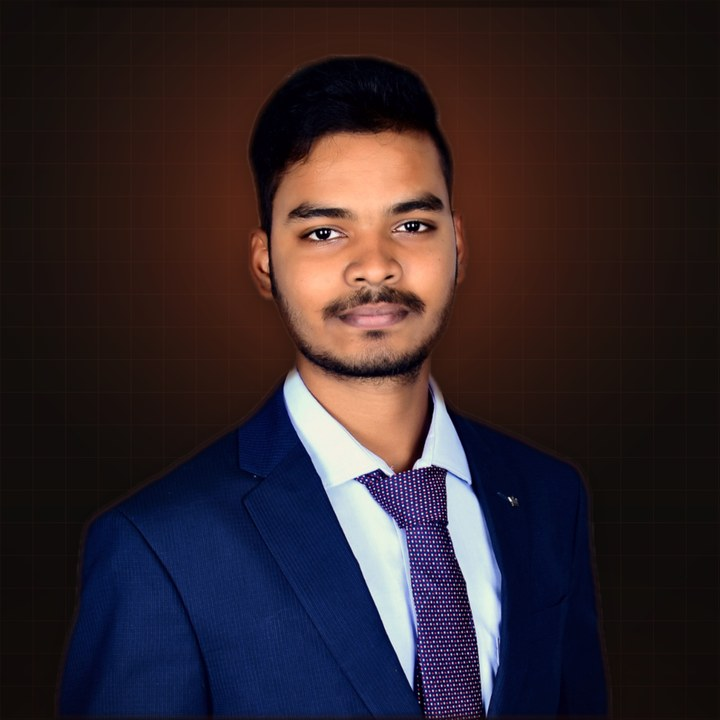
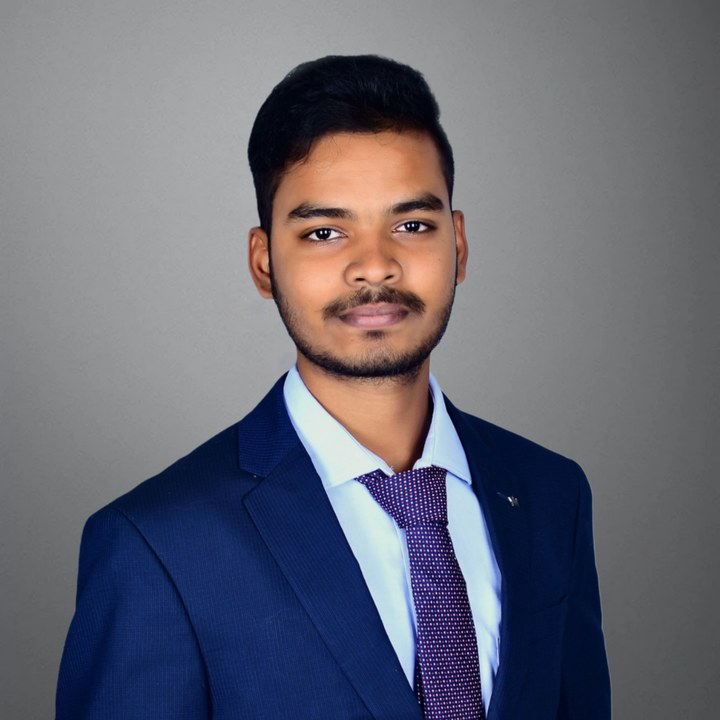
Match template's neutral palette and restore original photo

diff --git a/src/components/Hero.tsx b/src/components/Hero.tsx
@@ -10,7 +10,7 @@ import ProjectCover from "./ProjectCover"
 import { Tag } from "./shared"
 
 const GRAPH_LEVELS = [
-  "rgba(39, 33, 30, 0.9)",    // no contributions
+  "rgba(38, 38, 38, 0.9)",    // no contributions
   "rgba(242, 87, 43, 0.25)", // accent tints
   "rgba(242, 87, 43, 0.45)",
   "rgba(242, 87, 43, 0.7)",
@@ -112,14 +112,14 @@ function Hero() {
 
         {/* Profile */}
         <div className="flex animate-[heroScale_0.7s_ease-out_0.15s_both] flex-col items-center gap-3 md:items-start">
-          <div className="relative aspect-square w-30 overflow-hidden rounded-xl border-2 border-accent shadow-[0_0_24px_-6px] shadow-accent/60 lg:w-38">
+          <div className="relative aspect-square w-30 overflow-hidden rounded-xl border-2 border-ink/15 lg:w-38">
             <img
               src={site.photo}
               alt={site.name}
               className="h-full w-full object-cover object-top"
             />
             {/* Scanner line */}
-            <div className="pointer-events-none absolute inset-x-0 top-0 h-1/4 animate-scan bg-linear-to-b from-transparent via-accent/25 to-transparent" />
+            <div className="pointer-events-none absolute inset-x-0 top-0 h-1/4 animate-scan bg-linear-to-b from-transparent via-white/10 to-transparent" />
           </div>
 
           {site.resumeUrl && (
@@ -127,7 +127,7 @@ function Hero() {
               href={site.resumeUrl}
               target="_blank"
               rel="noopener noreferrer"
-              className="flex w-38 items-center justify-center gap-2 rounded-lg border border-accent/20 bg-doom py-2 text-xs font-bold text-ink/80 transition-all hover:-translate-y-0.5 hover:border-accent/60 hover:text-accent sm:text-sm"
+              className="flex w-38 items-center justify-center gap-2 rounded-lg bg-doom/90 py-2 text-xs font-bold text-ink/80 transition-all hover:-translate-y-0.5 hover:border-accent/60 hover:text-accent sm:text-sm"
             >
               <FaFileDownload className="h-3.5 w-3.5" aria-hidden="true" />
               {hero.resumeLabel}
@@ -333,8 +333,8 @@ function Hero() {
                   username={site.githubUsername}
                   theme={{
                     bgColor: "transparent",
-                    textColor: "#E6E1DD",
-                    inactiveTextColor: "#27211E",
+                    textColor: "#DEDEDE",
+                    inactiveTextColor: "#4D4D4D",
                     cellLevel0: GRAPH_LEVELS[0],
                     cellLevel1: GRAPH_LEVELS[1],
                     cellLevel2: GRAPH_LEVELS[2],

diff --git a/src/index.css b/src/index.css
@@ -7,15 +7,15 @@
   ink       → main text colour
   ink-deep  → page background
   accent    → primary highlight (signal orange)
-  accent-blue → secondary highlight (amber, used sparingly)
+  accent-blue → secondary highlight (neutral grey, used sparingly)
   doom      → raised surfaces (navbar, icon tiles)
 */
 @theme {
-  --color-ink: #E6E1DD;
-  --color-ink-deep: #0D0B0A;
+  --color-ink: #DEDEDE;
+  --color-ink-deep: #171717;
   --color-accent: #F2572B;
-  --color-accent-blue: #FFB547;
-  --color-doom: #27211E;
+  --color-accent-blue: #A3A3A3;
+  --color-doom: #4D4D4D;
 
   --font-sans: "Poppins", sans-serif;
   --font-mono: "JetBrains Mono", monospace;
@@ -23,8 +23,8 @@
 
 :root {
   font-family: "Poppins", sans-serif;
-  color: #E6E1DD;
-  background: #0D0B0A;
+  color: #DEDEDE;
+  background: #171717;
   color-scheme: dark;
 }
 
@@ -35,13 +35,12 @@
 body {
   margin: 0;
   min-width: 320px;
-  background-color: #0D0B0A;
-  /* Faint terminal grid + top glow */
+  background-color: #171717;
+  /* Faint terminal grid */
   background-image:
-    radial-gradient(ellipse 80% 50% at 50% -10%, rgba(242, 87, 43, 0.08), transparent 60%),
-    linear-gradient(rgba(230, 225, 221, 0.025) 1px, transparent 1px),
-    linear-gradient(90deg, rgba(230, 225, 221, 0.025) 1px, transparent 1px);
-  background-size: 100% 100%, 44px 44px, 44px 44px;
+    linear-gradient(rgba(255, 255, 255, 0.02) 1px, transparent 1px),
+    linear-gradient(90deg, rgba(255, 255, 255, 0.02) 1px, transparent 1px);
+  background-size: 44px 44px, 44px 44px;
   background-attachment: fixed;
 }
 
@@ -182,42 +181,42 @@ body::after {
   10% {
     transform: translate(-3px, 2px);
     text-shadow:
-      3px 0 #FFB547,
+      3px 0 #A3A3A3,
       -3px 0 #F2572B;
   }
 
   20% {
     transform: translate(3px, -2px);
     text-shadow:
-      -3px 0 #FFB547,
+      -3px 0 #A3A3A3,
       3px 0 #F2572B;
   }
 
   30% {
     transform: translate(-2px, 0);
     text-shadow:
-      2px 0 #FFB547,
+      2px 0 #A3A3A3,
       -2px 0 #F2572B;
   }
 
   40% {
     transform: translate(2px, 1px);
     text-shadow:
-      -2px 0 #FFB547,
+      -2px 0 #A3A3A3,
       2px 0 #F2572B;
   }
 
   50% {
     transform: translate(-1px, -1px);
     text-shadow:
-      1px 0 #FFB547,
+      1px 0 #A3A3A3,
       -1px 0 #F2572B;
   }
 
   60% {
     transform: translate(1px, 0);
     text-shadow:
-      -1px 0 #FFB547,
+      -1px 0 #A3A3A3,
       1px 0 #F2572B;
   }
 

diff --git a/src/components/Projects.tsx b/src/components/Projects.tsx
@@ -42,7 +42,7 @@ function Projects() {
           return (
             <article
               key={project.slug}
-              className="group relative flex flex-col overflow-hidden rounded-[28px] border-[5px] border-black bg-[#161210] shadow-lg shadow-black/30 transition-all duration-300 hover:-translate-y-1 hover:shadow-accent/10"
+              className="group relative flex flex-col overflow-hidden rounded-[28px] border-[5px] border-black bg-[#1c1c1c] shadow-lg shadow-black/30 transition-all duration-300 hover:-translate-y-1 hover:shadow-accent/10"
             >
               {/* Hover tooltip */}
               <span className="pointer-events-none absolute right-4 top-4 z-10 origin-top-right rotate-6 scale-75 rounded-full bg-accent px-3 py-1.5 font-mono text-[10px] font-bold uppercase tracking-wide text-ink-deep opacity-0 shadow-lg shadow-black/20 transition-all duration-300 group-hover:rotate-0 group-hover:scale-100 group-hover:opacity-100">
@@ -56,7 +56,7 @@ function Projects() {
               </div>
 
               {/* Folder-tab title */}
-              <div className="relative -mt-5 w-[78%] rounded-t-2xl bg-[#161210] px-5 pb-2 pt-4">
+              <div className="relative -mt-5 w-[78%] rounded-t-2xl bg-[#1c1c1c] px-5 pb-2 pt-4">
                 <p className="font-mono text-[9px] font-bold uppercase leading-tight tracking-wide text-accent">
                   {project.category}
                 </p>
@@ -66,7 +66,7 @@ function Projects() {
               </div>
 
               {/* Body */}
-              <div className="flex flex-1 flex-col justify-between gap-4 bg-[#161210] px-5 pb-5 pt-1">
+              <div className="flex flex-1 flex-col justify-between gap-4 bg-[#1c1c1c] px-5 pb-5 pt-1">
                 <p className="text-xs leading-5 text-white/55">{project.description}</p>
 
                 <div className="flex flex-wrap gap-1.5">

diff --git a/src/components/ProjectCover.tsx b/src/components/ProjectCover.tsx
@@ -23,11 +23,11 @@ export default function ProjectCover({
   return (
     <div
       aria-hidden="true"
-      className={`relative h-full w-full overflow-hidden bg-[#100C0A] transition-transform duration-500 group-hover:scale-105 ${className}`}
+      className={`relative h-full w-full overflow-hidden bg-[#121212] transition-transform duration-500 group-hover:scale-105 ${className}`}
     >
       {/* Grid + glow */}
-      <div className="absolute inset-0 bg-[linear-gradient(rgba(242,87,43,0.07)_1px,transparent_1px),linear-gradient(90deg,rgba(242,87,43,0.07)_1px,transparent_1px)] bg-size-[18px_18px]" />
-      <div className="absolute -right-8 -top-10 h-40 w-40 rounded-full bg-accent/20 blur-3xl" />
+      <div className="absolute inset-0 bg-[linear-gradient(rgba(255,255,255,0.04)_1px,transparent_1px),linear-gradient(90deg,rgba(255,255,255,0.04)_1px,transparent_1px)] bg-size-[18px_18px]" />
+      <div className="absolute -right-8 -top-10 h-40 w-40 rounded-full bg-accent/10 blur-3xl" />
       <div className="absolute -bottom-12 left-6 h-32 w-32 rounded-full bg-accent-blue/10 blur-3xl" />
 
       {/* Big watermark icon */}

diff --git a/src/components/About.tsx b/src/components/About.tsx
@@ -134,11 +134,11 @@ function About() {
           <div
             onMouseEnter={() => setPaused(true)}
             onMouseLeave={() => setPaused(false)}
-            className={`group relative isolate flex flex-col overflow-hidden rounded-xl border border-accent/15 bg-[#120D0B] p-5 transition-all duration-300 ${
+            className={`group relative isolate flex flex-col overflow-hidden rounded-xl border border-ink/10 bg-[#1c1c1c] p-5 transition-all duration-300 ${
               isVisible ? "animate-[heroFadeUp_0.7s_ease-out_0.5s_both]" : "opacity-0"
             }`}
           >
-            <div className="pointer-events-none absolute inset-0 -z-10 bg-[radial-gradient(circle_at_50%_45%,rgba(242,87,43,0.14),transparent_60%)]" />
+            <div className="pointer-events-none absolute inset-0 -z-10 bg-[radial-gradient(circle_at_50%_45%,rgba(242,87,43,0.06),transparent_60%)]" />
 
             <div className="flex items-center justify-between">
               <FaTerminal className="h-5 w-5 text-accent/80" />

diff --git a/src/components/Navbar.tsx b/src/components/Navbar.tsx
@@ -78,7 +78,7 @@ export default function Navbar() {
       aria-label="Primary"
       className="fixed bottom-[max(1.5rem,env(safe-area-inset-bottom))] left-1/2 z-50 -translate-x-1/2"
     >
-      <div className="flex items-center gap-1 rounded-full border border-accent/15 bg-doom/90 px-2 py-2 shadow-lg shadow-black/40 backdrop-blur-md">
+      <div className="flex items-center gap-1 rounded-full border border-ink/10 bg-doom/90 px-2 py-2 shadow-lg shadow-black/40 backdrop-blur-md">
         {navItems.map(({ id, label, icon: Icon }) => {
           const isActive = activeId === id
 

diff --git a/src/components/Contact.tsx b/src/components/Contact.tsx
@@ -162,7 +162,7 @@ function StatusDialog({
       className="m-auto w-[calc(100%-2rem)] max-w-xs bg-transparent p-0 backdrop:bg-black/50 backdrop:backdrop-blur-sm"
     >
       {content && Icon && (
-        <div className="relative rounded-2xl border border-accent/15 bg-ink-deep p-4 text-ink shadow-2xl">
+        <div className="relative rounded-2xl border border-ink/10 bg-ink-deep p-4 text-ink shadow-2xl">
           <button
             type="button"
             onClick={onClose}
